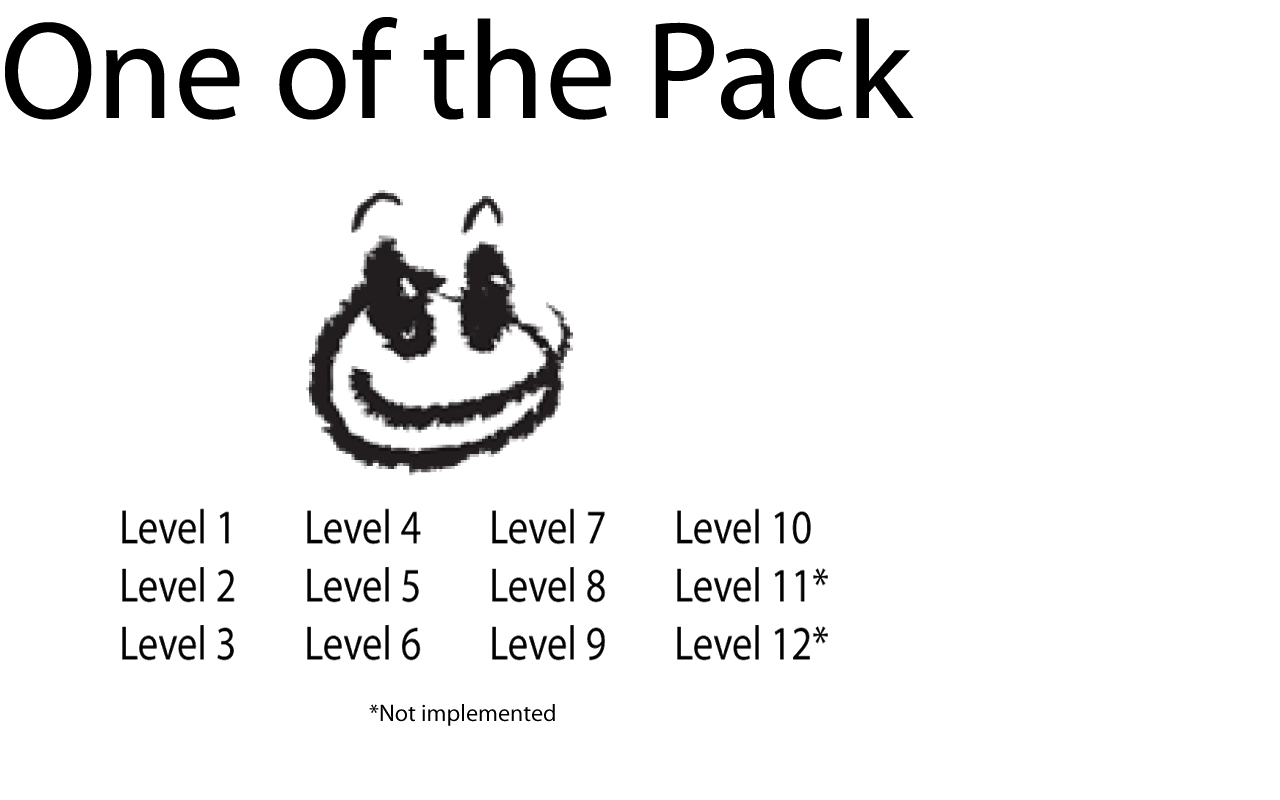
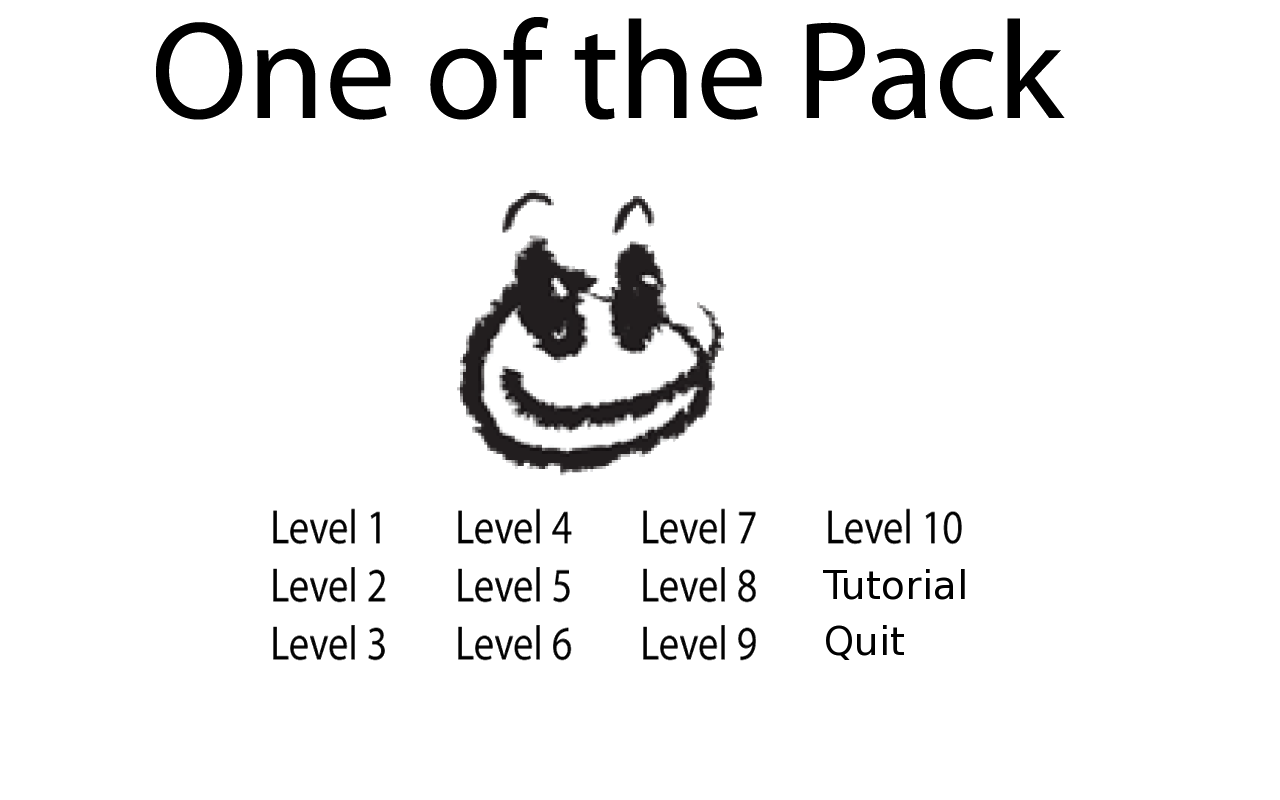
Changed the main menu a little and also removed some memory leaks.

diff --git a/src/main.cpp b/src/main.cpp
@@ -473,6 +473,7 @@ void handleKeypress(unsigned char key, int x, int y)
       else if (s == main_s)
       {
         main_s->clean();
+        main_s->state_clean();
         delete main_s;
       }
       else
@@ -503,29 +504,49 @@ void handleKeypress(unsigned char key, int x, int y)
         {
           system_clean();
           stack.clear();
-          s = main_s;
-          ((Main_Menu_State*)s)->pause_sound();
+          loading = true;
+          glutPostRedisplay();
+          glutTimerFunc(25, initMain, 0);
         }
       }
       else if (s == tutorial)
       {
         loading = true;
-        ((Tutorial_State*)tutorial)->pause_sound();
         glutPostRedisplay();
+        ((Tutorial_State*)s)->pause_sound();
+        ((Tutorial_State*)s)->clean();
+        delete tutorial;
         glutTimerFunc(25, initMain, 0);
       }
       else if (s == main_s)
       {
         level = ((Main_Menu_State*)s)->get_selected();
-        if (level > last_level)
+        if (level == 11)
+        {
+          loading = true;
+          glutPostRedisplay();
+          ((Main_Menu_State*)s)->pause_sound();
+          ((Main_Menu_State*)s)->clean();
+          delete main_s;
+          glutTimerFunc(25, initTutorial, 0);
+        }
+        else if (level == 12)
+        {
+          main_s->clean();
+          delete main_s;
+          exit(0);
+        }
+        else if (level > last_level)
         {
           fprintf(stderr, "Error level %u is not yet implemented\n", level);
         }
         else
         {
           loading = true;
-          ((Main_Menu_State*)s)->pause_sound();
           glutPostRedisplay();
+          ((Main_Menu_State*)s)->pause_sound();
+          ((Main_Menu_State*)s)->clean();
+          delete main_s;
           glutTimerFunc(25, initLevel, level);
         }
       }

diff --git a/src/defines.h b/src/defines.h
@@ -73,7 +73,7 @@
 #define POINTER_MOVE 90
 #define MAIN_MENU_POINTER_MOVE_X 185
 #define MAIN_MENU_POINTER_MOVE_Y 58
-#define MAIN_POINTER_START_X 56
+#define MAIN_POINTER_START_X 207
 #define MAIN_POINTER_START_Y 498
 
 #define DELTA_DELAY 2

diff --git a/src/main_menu_state.cpp b/src/main_menu_state.cpp
@@ -147,5 +147,8 @@ void Main_Menu_State::clean(void)
   delete background;
   delete pointer;
   
-  state_clean();
+  FMOD_RESULT result;
+  
+  result = FMOD_Sound_Release(music);
+  ERRCHECK(result);
 }

diff --git a/src/tutorial_state.cpp b/src/tutorial_state.cpp
@@ -91,4 +91,9 @@ void Tutorial_State::clean(void)
     delete slides.at(i);
   }
   slides.clear();
+  
+  FMOD_RESULT result;
+  
+  result = FMOD_Sound_Release(music);
+  ERRCHECK(result);
 }

diff --git a/src/tutorial_state.h b/src/tutorial_state.h
@@ -36,6 +36,8 @@ public:
   void play_sound(void);
   void pause_sound(void);
   
+  void reset(void) {current_slide = 0;}
+  
   void clean(void);
 };
 #endif // FLOCK__MAIN_MENU_STATE__H
